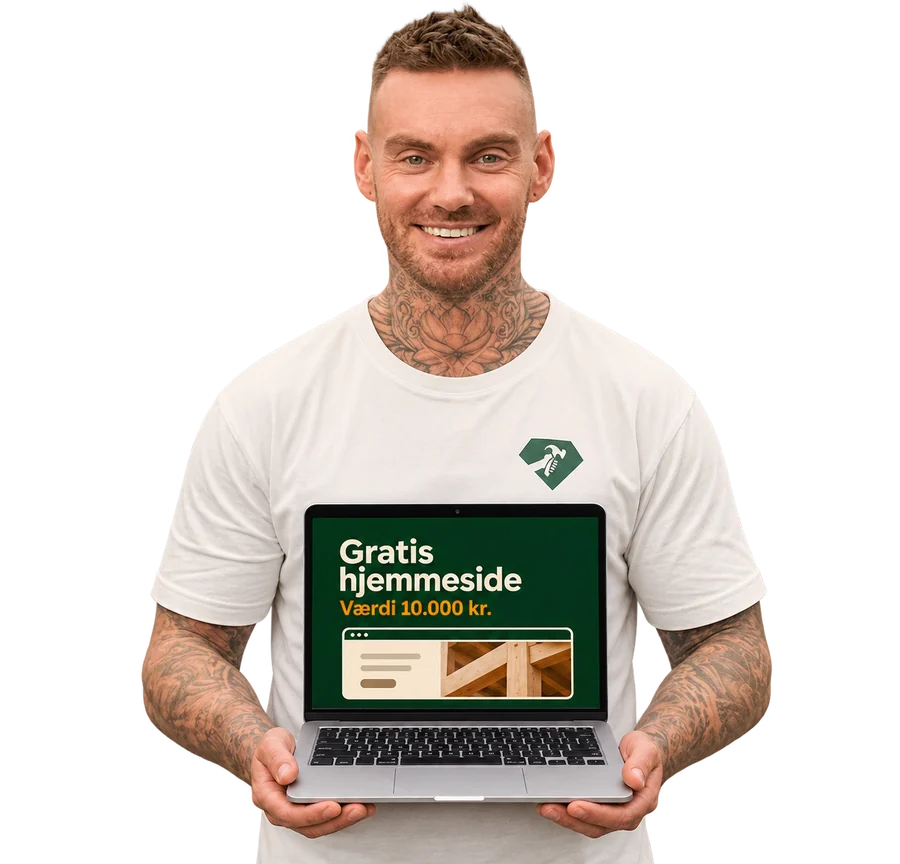
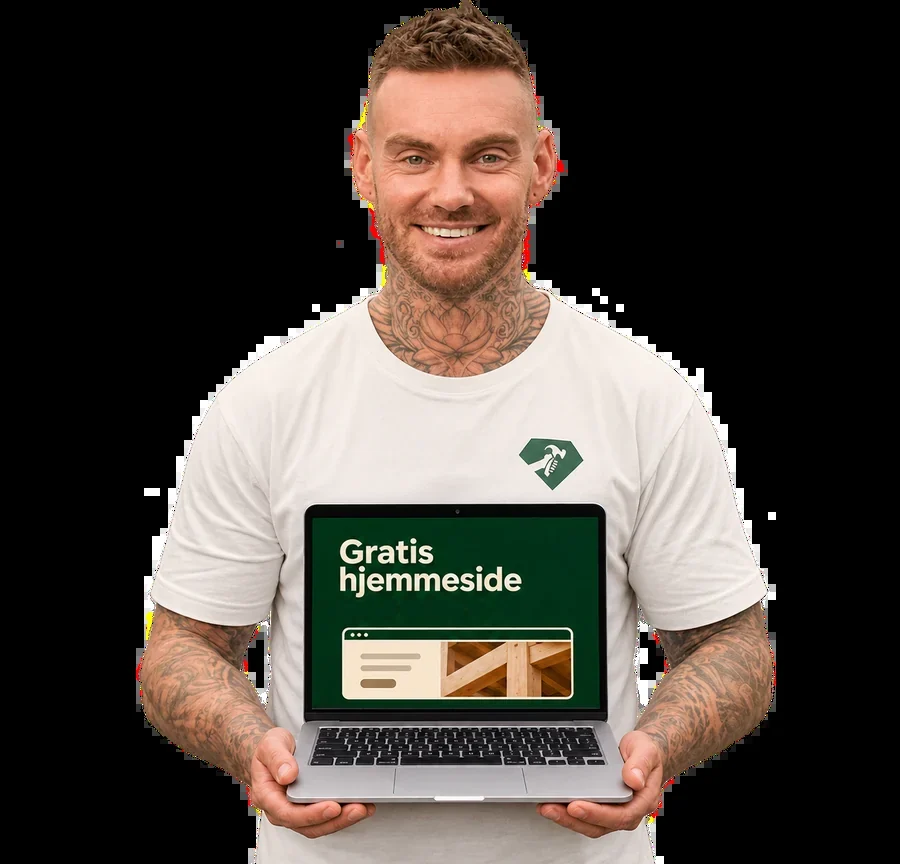
Ærlig hjemmeside-copy (99 kr./md., ingen 10.000 kr.), snefald i hero, 17 videoer, 16 anmeldelser, pile og træk med mus
Claude-Session: https://claude.ai/code/session_01YKPAmFNTgLsFQk9SsnSBkS

diff --git a/index.html b/index.html
@@ -610,10 +610,10 @@ html[data-bf="archivo"] .cta{font-family:'Archivo',sans-serif;font-stretch:112%;
   .laerer .cta{grid-column:2;grid-row:4;margin-top:28px!important;align-self:start;width:100%}
   .prog-top h3{font-size:26px}
 
-  /* cases: alle fem videoer på én række, ingen swipe */
-  .spor{display:grid;grid-template-columns:repeat(5,1fr);gap:16px;overflow:visible;padding:36px 0 6px}
-  .case{width:auto}
-  .case .tekst b{font-size:clamp(16px,1.45vw,21px)}   /* fem kort på én række: titlerne må ikke fylde fire linjer på en lille skærm */
+  /* cases: swipe-spor med pile, fem kort synlige ad gangen */
+  .spor{gap:16px;padding-top:36px}
+  .case{width:calc((min(100vw,1200px) - 140px)/5)}
+  .case .tekst b{font-size:clamp(16px,1.45vw,21px)}
   .prikker{display:none}
   .tp-spor{padding-left:0;padding-right:0}
   .tp-k{flex-basis:300px}
@@ -646,6 +646,30 @@ html[data-bf="archivo"] .cta{font-family:'Archivo',sans-serif;font-stretch:112%;
   .slut8-fakta{max-width:560px;margin-left:auto;margin-right:auto}
   .slut8-fakta dd{font-size:18px}
 }
+
+
+/* snefald i hero: ligger over billedet, under teksten. Fader ud nedad, så det ikke forstyrrer overskriften */
+.sne{position:absolute;inset:0;z-index:1;overflow:hidden;pointer-events:none;--fald:900px;
+  -webkit-mask:linear-gradient(180deg,#000 0,#000 52%,transparent 82%);mask:linear-gradient(180deg,#000 0,#000 52%,transparent 82%)}
+.sne i{position:absolute;top:-12px;border-radius:50%;background:#fff;opacity:var(--o);filter:blur(.4px);
+  animation:sne var(--d) linear var(--f) infinite;will-change:transform}
+@keyframes sne{0%{transform:translate3d(0,0,0)}50%{transform:translate3d(var(--x),calc(var(--fald)*.5),0)}100%{transform:translate3d(0,var(--fald),0)}}
+.hero picture,.hero-txt{position:relative}
+.hero-txt{z-index:2}
+@media (min-width:768px){ .sne{--fald:1250px} }
+@media (prefers-reduced-motion:reduce){ .sne{display:none} }
+
+/* pile under video- og anmeldelsessporet (computer). På mobil swiper man */
+.pile{display:none;justify-content:center;gap:10px;margin-top:16px}
+.pil-k{width:44px;height:44px;border-radius:50%;border:1px solid rgba(6,20,15,.18);background:#fff;color:#06140F;display:flex;align-items:center;justify-content:center;cursor:pointer;
+  transition:background .2s,transform .15s;-webkit-tap-highlight-color:transparent}
+.pil-k:hover{background:#F3EEE6}
+.pil-k:active{transform:scale(.94)}
+.pil-k svg{width:18px;height:18px}
+.pil-k[data-dir="-1"] svg{transform:scaleX(-1)}
+.spor.traek,.tp-spor.traek{cursor:grabbing;scroll-snap-type:none}
+.spor.traek *,.tp-spor.traek *{user-select:none;pointer-events:none}
+@media (hover:hover) and (pointer:fine){ .spor,.tp-spor{cursor:grab} .pile{display:flex} }
 </style>
 </head>
 <body>
@@ -679,6 +703,7 @@ html[data-bf="archivo"] .cta{font-family:'Archivo',sans-serif;font-stretch:112%;
 
 <main>
   <section class="hero">
+    <div class="sne" aria-hidden="true"><i style="left:11.3%;width:4.1px;height:4.1px;--d:13.2s;--f:-18.2s;--x:-30px;--o:0.67"></i><i style="left:73.7%;width:2.7px;height:2.7px;--d:12.6s;--f:-6.4s;--x:-30px;--o:0.61"></i><i style="left:44.0%;width:4.5px;height:4.5px;--d:15.7s;--f:-12.6s;--x:30px;--o:0.76"></i><i style="left:21.9%;width:4.1px;height:4.1px;--d:13.5s;--f:-18.3s;--x:-20px;--o:0.74"></i><i style="left:37.8%;width:3.7px;height:3.7px;--d:16.0s;--f:-4.2s;--x:-20px;--o:0.35"></i><i style="left:44.9%;width:5.2px;height:5.2px;--d:14.8s;--f:-12.1s;--x:-12px;--o:0.59"></i><i style="left:84.9%;width:3.4px;height:3.4px;--d:10.0s;--f:-18.9s;--x:30px;--o:0.67"></i><i style="left:1.5%;width:4.0px;height:4.0px;--d:17.6s;--f:-15.4s;--x:-20px;--o:0.76"></i><i style="left:16.8%;width:4.9px;height:4.9px;--d:9.6s;--f:-15.0s;--x:12px;--o:0.51"></i><i style="left:97.7%;width:4.1px;height:4.1px;--d:9.1s;--f:-0.1s;--x:30px;--o:0.84"></i><i style="left:79.4%;width:2.3px;height:2.3px;--d:10.3s;--f:-16.9s;--x:20px;--o:0.7"></i><i style="left:93.5%;width:3.0px;height:3.0px;--d:13.8s;--f:-10.7s;--x:12px;--o:0.48"></i><i style="left:15.5%;width:5.3px;height:5.3px;--d:17.0s;--f:-2.7s;--x:12px;--o:0.41"></i><i style="left:2.2%;width:5.3px;height:5.3px;--d:11.3s;--f:-13.9s;--x:-20px;--o:0.68"></i><i style="left:93.8%;width:2.0px;height:2.0px;--d:14.6s;--f:-4.2s;--x:-12px;--o:0.44"></i><i style="left:73.0%;width:2.7px;height:2.7px;--d:10.3s;--f:-9.5s;--x:20px;--o:0.71"></i><i style="left:67.8%;width:2.8px;height:2.8px;--d:12.0s;--f:-15.1s;--x:-20px;--o:0.61"></i><i style="left:9.2%;width:2.5px;height:2.5px;--d:14.2s;--f:-12.4s;--x:-12px;--o:0.36"></i><i style="left:75.4%;width:2.5px;height:2.5px;--d:12.0s;--f:-12.1s;--x:30px;--o:0.8"></i><i style="left:61.6%;width:3.2px;height:3.2px;--d:9.5s;--f:-0.2s;--x:-30px;--o:0.66"></i><i style="left:15.6%;width:2.7px;height:2.7px;--d:9.1s;--f:-1.6s;--x:20px;--o:0.83"></i><i style="left:83.5%;width:2.2px;height:2.2px;--d:9.6s;--f:-3.1s;--x:-20px;--o:0.65"></i><i style="left:56.4%;width:2.9px;height:2.9px;--d:9.7s;--f:-10.4s;--x:20px;--o:0.43"></i><i style="left:78.3%;width:5.4px;height:5.4px;--d:11.4s;--f:-2.6s;--x:20px;--o:0.67"></i><i style="left:18.1%;width:2.8px;height:2.8px;--d:19.0s;--f:-10.5s;--x:-20px;--o:0.42"></i><i style="left:79.9%;width:2.5px;height:2.5px;--d:9.7s;--f:-18.6s;--x:-30px;--o:0.75"></i><i style="left:91.9%;width:4.7px;height:4.7px;--d:12.9s;--f:-10.3s;--x:-30px;--o:0.47"></i><i style="left:94.6%;width:2.6px;height:2.6px;--d:15.3s;--f:-13.9s;--x:30px;--o:0.49"></i><i style="left:75.9%;width:5.0px;height:5.0px;--d:17.2s;--f:-4.3s;--x:20px;--o:0.56"></i><i style="left:99.2%;width:4.7px;height:4.7px;--d:17.9s;--f:-1.4s;--x:30px;--o:0.37"></i><i style="left:70.9%;width:3.8px;height:3.8px;--d:12.6s;--f:-7.0s;--x:30px;--o:0.66"></i><i style="left:70.7%;width:4.7px;height:4.7px;--d:12.5s;--f:-10.6s;--x:20px;--o:0.53"></i><i style="left:50.2%;width:3.6px;height:3.6px;--d:17.4s;--f:-7.5s;--x:20px;--o:0.78"></i><i style="left:57.3%;width:5.2px;height:5.2px;--d:13.4s;--f:-2.0s;--x:30px;--o:0.78"></i><i style="left:46.2%;width:4.9px;height:4.9px;--d:18.7s;--f:-6.8s;--x:-30px;--o:0.66"></i><i style="left:48.2%;width:4.1px;height:4.1px;--d:15.4s;--f:-13.7s;--x:12px;--o:0.77"></i><i style="left:40.9%;width:5.4px;height:5.4px;--d:10.8s;--f:-10.2s;--x:-12px;--o:0.54"></i><i style="left:31.4%;width:2.3px;height:2.3px;--d:16.9s;--f:-7.3s;--x:20px;--o:0.4"></i><i style="left:94.1%;width:5.0px;height:5.0px;--d:12.7s;--f:-4.4s;--x:-20px;--o:0.46"></i><i style="left:11.8%;width:4.5px;height:4.5px;--d:18.3s;--f:-18.5s;--x:12px;--o:0.7"></i><i style="left:57.8%;width:4.3px;height:4.3px;--d:11.5s;--f:-4.1s;--x:-30px;--o:0.84"></i><i style="left:68.3%;width:4.5px;height:4.5px;--d:14.8s;--f:-18.9s;--x:20px;--o:0.64"></i><i style="left:39.3%;width:2.5px;height:2.5px;--d:17.9s;--f:-7.9s;--x:30px;--o:0.62"></i><i style="left:4.1%;width:4.8px;height:4.8px;--d:10.9s;--f:-12.4s;--x:12px;--o:0.55"></i><i style="left:52.7%;width:3.4px;height:3.4px;--d:18.4s;--f:-16.4s;--x:-30px;--o:0.74"></i><i style="left:61.9%;width:2.7px;height:2.7px;--d:18.6s;--f:-11.8s;--x:-20px;--o:0.49"></i></div>
     <picture><source media="(min-width:768px)" srcset="billeder/hero-gavl-bred.webp" width="2661" height="1330"><img id="heroimg" src="billeder/hero-gavl.webp" width="1400" height="1485" alt="Stefan fra Håndværkerskolen" fetchpriority="high"></picture>
     <div class="hero-txt">
       <div class="date" id="date"><span class="edge" aria-hidden="true"></span><span class="dot" aria-hidden="true"></span><span class="t" id="datet"></span></div>
@@ -741,7 +766,7 @@ html[data-bf="archivo"] .cta{font-family:'Archivo',sans-serif;font-stretch:112%;
   <section class="cases" id="cases" aria-labelledby="cases-h">
     <p class="eyebrow">Resultater</p>
     <h2 class="h2" id="cases-h">Håndværkere der har fået<br><span class="acc">fyldt ordrebogen</span></h2>
-    <p class="lead">Rigtige håndværkere fortæller selv, hvad der skete. Tryk på en video.</p>
+    <p class="lead">Rigtige håndværkere fortæller selv, hvad der skete. Tryk på en video, og swipe for at se flere.</p>
     <div class="spor" id="spor">
       <a class="case" href="https://www.youtube.com/shorts/LZIb64YkEFc" data-yt="LZIb64YkEFc" target="_blank" rel="noopener" aria-label="Se casen: Opgaver for 4,5 mio. på 4 måneder">
         <img src="billeder/case-mathias.webp" alt="" width="360" height="640" loading="lazy">
@@ -768,13 +793,75 @@ html[data-bf="archivo"] .cta{font-family:'Archivo',sans-serif;font-stretch:112%;
         <span class="spil" aria-hidden="true"><svg><use href="#spil"/></svg></span>
         <span class="tekst"><b>Over 4 mio. kr.<br>i omsætning</b></span>
       </a>
+      <a class="case" href="https://www.youtube.com/shorts/Oede9yDifEY" data-yt="Oede9yDifEY" target="_blank" rel="noopener" aria-label="Se casen: Bjørn fra DK Landskab">
+        <img src="billeder/yt-Oede9yDifEY.webp" alt="" width="540" height="960" loading="lazy">
+        <span class="spil" aria-hidden="true"><svg><use href="#spil"/></svg></span>
+        <span class="tekst"><b>Bjørn fra<br>DK Landskab</b></span>
+      </a>
+      <a class="case" href="https://www.youtube.com/shorts/wu8-avnu8Is" data-yt="wu8-avnu8Is" target="_blank" rel="noopener" aria-label="Se casen: Gesten Multiservice">
+        <img src="billeder/yt-wu8-avnu8Is.webp" alt="" width="540" height="960" loading="lazy">
+        <span class="spil" aria-hidden="true"><svg><use href="#spil"/></svg></span>
+        <span class="tekst"><b>Gesten<br>Multiservice</b><small>Fliserens og isolering</small></span>
+      </a>
+      <a class="case" href="https://www.youtube.com/shorts/Jlqdxbw0h6E" data-yt="Jlqdxbw0h6E" target="_blank" rel="noopener" aria-label="Se casen: Gyldenskjold Tømrer">
+        <img src="billeder/yt-Jlqdxbw0h6E.webp" alt="" width="540" height="960" loading="lazy">
+        <span class="spil" aria-hidden="true"><svg><use href="#spil"/></svg></span>
+        <span class="tekst"><b>Gyldenskjold<br>Tømrer</b></span>
+      </a>
+      <a class="case" href="https://www.youtube.com/shorts/DDp36Xqgap8" data-yt="DDp36Xqgap8" target="_blank" rel="noopener" aria-label="Se casen: KTN Byg">
+        <img src="billeder/yt-DDp36Xqgap8.webp" alt="" width="540" height="960" loading="lazy">
+        <span class="spil" aria-hidden="true"><svg><use href="#spil"/></svg></span>
+        <span class="tekst"><b>KTN Byg</b><small>Aalborg</small></span>
+      </a>
+      <a class="case" href="https://www.youtube.com/shorts/QJNZx3aPsNw" data-yt="QJNZx3aPsNw" target="_blank" rel="noopener" aria-label="Se casen: Lindtoft Byg">
+        <img src="billeder/yt-QJNZx3aPsNw.webp" alt="" width="540" height="960" loading="lazy">
+        <span class="spil" aria-hidden="true"><svg><use href="#spil"/></svg></span>
+        <span class="tekst"><b>Lindtoft Byg</b><small>Sjælland</small></span>
+      </a>
+      <a class="case" href="https://www.youtube.com/shorts/OQelbwCC2iI" data-yt="OQelbwCC2iI" target="_blank" rel="noopener" aria-label="Se casen: Pedersen Byg">
+        <img src="billeder/yt-OQelbwCC2iI.webp" alt="" width="540" height="960" loading="lazy">
+        <span class="spil" aria-hidden="true"><svg><use href="#spil"/></svg></span>
+        <span class="tekst"><b>Pedersen Byg</b><small>Murermester</small></span>
+      </a>
+      <a class="case" href="https://www.youtube.com/shorts/rzUD27Wkfl0" data-yt="rzUD27Wkfl0" target="_blank" rel="noopener" aria-label="Se casen: Nørhald Byg">
+        <img src="billeder/yt-rzUD27Wkfl0.webp" alt="" width="540" height="960" loading="lazy">
+        <span class="spil" aria-hidden="true"><svg><use href="#spil"/></svg></span>
+        <span class="tekst"><b>Nørhald Byg</b><small>Michael</small></span>
+      </a>
+      <a class="case" href="https://www.youtube.com/shorts/JzwPgWBKyQU" data-yt="JzwPgWBKyQU" target="_blank" rel="noopener" aria-label="Se casen: PM Alge og Isolering">
+        <img src="billeder/yt-JzwPgWBKyQU.webp" alt="" width="540" height="960" loading="lazy">
+        <span class="spil" aria-hidden="true"><svg><use href="#spil"/></svg></span>
+        <span class="tekst"><b>PM Alge og<br>Isolering</b><small>Peter</small></span>
+      </a>
+      <a class="case" href="https://www.youtube.com/shorts/1blS_ygITKU" data-yt="1blS_ygITKU" target="_blank" rel="noopener" aria-label="Se casen: Det bedste år i 9 år">
+        <img src="billeder/yt-1blS_ygITKU.webp" alt="" width="540" height="960" loading="lazy">
+        <span class="spil" aria-hidden="true"><svg><use href="#spil"/></svg></span>
+        <span class="tekst"><b>Det bedste år<br>i 9 år</b><small>Emils Skovservice</small></span>
+      </a>
+      <a class="case" href="https://www.youtube.com/shorts/RrtDnIeRbWQ" data-yt="RrtDnIeRbWQ" target="_blank" rel="noopener" aria-label="Se casen: De opgaver man godt kan li' at lave">
+        <img src="billeder/yt-RrtDnIeRbWQ.webp" alt="" width="540" height="960" loading="lazy">
+        <span class="spil" aria-hidden="true"><svg><use href="#spil"/></svg></span>
+        <span class="tekst"><b>De opgaver man<br>godt kan li' at lave</b></span>
+      </a>
+      <a class="case" href="https://www.youtube.com/shorts/mONhIkLXU0o" data-yt="mONhIkLXU0o" target="_blank" rel="noopener" aria-label="Se casen: Et par måneder efter start">
+        <img src="billeder/yt-mONhIkLXU0o.webp" alt="" width="540" height="960" loading="lazy">
+        <span class="spil" aria-hidden="true"><svg><use href="#spil"/></svg></span>
+        <span class="tekst"><b>Et par måneder<br>efter start</b><small>Jonas</small></span>
+      </a>
+      <a class="case" href="https://www.youtube.com/shorts/3W1vINNK8bc" data-yt="3W1vINNK8bc" target="_blank" rel="noopener" aria-label="Se casen: Gode opgaver i bogen">
+        <img src="billeder/yt-3W1vINNK8bc.webp" alt="" width="540" height="960" loading="lazy">
+        <span class="spil" aria-hidden="true"><svg><use href="#spil"/></svg></span>
+        <span class="tekst"><b>Gode opgaver<br>i bogen</b><small>Entreprenørfirma</small></span>
+      </a>
     </div>
-    <div class="prikker" id="prikker" aria-hidden="true"><i></i><i></i><i></i><i></i><i></i></div>
+    <div class="prikker" id="prikker" aria-hidden="true"></div>
+    <div class="pile" data-spor="spor"><button type="button" class="pil-k" data-dir="-1" aria-label="Forrige video"><svg aria-hidden="true"><use href="#pil"/></svg></button><button type="button" class="pil-k" data-dir="1" aria-label="Næste video"><svg aria-hidden="true"><use href="#pil"/></svg></button></div>
     <!-- Ordrette citater fra Trustpilot (hentet 12. nov. 2026). Kun citater med et konkret resultat eller en konkret tvivl, der bliver besvaret,
          og to med 4 stjerner, så det ikke ser for perfekt ud. Hele rækken står to gange, så den kan glide i ring -->
     <div class="anm" aria-labelledby="tp-h">
       <p class="tp-top" id="tp-h"><span class="tp-score" aria-hidden="true"><i style="width:100%"></i></span><span>Det siger håndværkerne selv</span></p>
-      <div class="tp-spor" id="tpspor"><figure class="tp-k"><span class="tp-s" aria-label="5 ud af 5 stjerner"><i class="on"></i><i class="on"></i><i class="on"></i><i class="on"></i><i class="on"></i></span><blockquote>“Nu er det ik mig der søger arbejde, nu er det kunderne der henvender sig til mig.”</blockquote><figcaption><b>Kenneth Busk Thomsen</b><span class="tp-f">Murer Busk</span></figcaption></figure><figure class="tp-k"><span class="tp-s" aria-label="5 ud af 5 stjerner"><i class="on"></i><i class="on"></i><i class="on"></i><i class="on"></i><i class="on"></i></span><blockquote>“Vi har fået så mange henvendelser, at vi faktisk måtte skrue ned for annoncebudgettet, fordi vi ikke kunne følge med.”</blockquote><figcaption><b>Christian-Thor Egilsson</b><span class="tp-f">Tømrermester CT</span></figcaption></figure><figure class="tp-k"><span class="tp-s" aria-label="5 ud af 5 stjerner"><i class="on"></i><i class="on"></i><i class="on"></i><i class="on"></i><i class="on"></i></span><blockquote>“Og dem der tvivler på om det kan passe at det er så godt som de siger i videoen. Så kan jeg kun sige at det gør det.”</blockquote><figcaption><b>Carsten</b><span class="tp-f">Hedes Gulvservice</span></figcaption></figure><figure class="tp-k"><span class="tp-s" aria-label="5 ud af 5 stjerner"><i class="on"></i><i class="on"></i><i class="on"></i><i class="on"></i><i class="on"></i></span><blockquote>“Firmaet har vækstet til dobbelt størrelse som var målet fra start, så det må siges at være lykkedes.”</blockquote><figcaption><b>Michael Andreasen</b><span class="tp-f">Nørhald Byg</span></figcaption></figure><figure class="tp-k"><span class="tp-s" aria-label="4 ud af 5 stjerner"><i class="on"></i><i class="on"></i><i class="on"></i><i class="on"></i><i></i></span><blockquote>“Prisen er lidt pebret, men alt i alt virker det godt :) min omsætning er i hvert fald øget efter reklamerne.”</blockquote><figcaption><b>Kristian Lovdal</b></figcaption></figure><figure class="tp-k"><span class="tp-s" aria-label="4 ud af 5 stjerner"><i class="on"></i><i class="on"></i><i class="on"></i><i class="on"></i><i></i></span><blockquote>“Generelt har vi haft vores bedste år, ud af de 9 år vi har drevet virksomhed.”</blockquote><figcaption><b>Emils Skovservice</b></figcaption></figure><figure class="tp-k"><span class="tp-s" aria-label="5 ud af 5 stjerner"><i class="on"></i><i class="on"></i><i class="on"></i><i class="on"></i><i class="on"></i></span><blockquote>“Siden jeg begyndte at samarbejde med håndværkerskolen, er der virkelig sket noget. De har hjulpet mig med at få flere og bedre kundehenvendelser.”</blockquote><figcaption><b>Steffen Møller Jürgensen</b><span class="tp-f">Tømrermester SMJ Byg</span></figcaption></figure><figure class="tp-k"><span class="tp-s" aria-label="5 ud af 5 stjerner"><i class="on"></i><i class="on"></i><i class="on"></i><i class="on"></i><i class="on"></i></span><blockquote>“Kundehenvendelser er ingen mangelvare efter jeg startede hos dem.”</blockquote><figcaption><b>Rasmus Blovsted</b></figcaption></figure><figure class="tp-k"><span class="tp-s" aria-label="5 ud af 5 stjerner"><i class="on"></i><i class="on"></i><i class="on"></i><i class="on"></i><i class="on"></i></span><blockquote>“Har aldrig i mit liv troet det kunne virke så godt.”</blockquote><figcaption><b>Den lille murer jylland</b></figcaption></figure><figure class="tp-k"><span class="tp-s" aria-label="5 ud af 5 stjerner"><i class="on"></i><i class="on"></i><i class="on"></i><i class="on"></i><i class="on"></i></span><blockquote>“Ydermere kommer man også ind i et fællesskab hvor der deles erfaringer og gode råd.”</blockquote><figcaption><b>Kasper Skavdal</b><span class="tp-f">Skavdal Byg</span></figcaption></figure><figure class="tp-k" aria-hidden="true"><span class="tp-s" aria-label="5 ud af 5 stjerner"><i class="on"></i><i class="on"></i><i class="on"></i><i class="on"></i><i class="on"></i></span><blockquote>“Nu er det ik mig der søger arbejde, nu er det kunderne der henvender sig til mig.”</blockquote><figcaption><b>Kenneth Busk Thomsen</b><span class="tp-f">Murer Busk</span></figcaption></figure><figure class="tp-k" aria-hidden="true"><span class="tp-s" aria-label="5 ud af 5 stjerner"><i class="on"></i><i class="on"></i><i class="on"></i><i class="on"></i><i class="on"></i></span><blockquote>“Vi har fået så mange henvendelser, at vi faktisk måtte skrue ned for annoncebudgettet, fordi vi ikke kunne følge med.”</blockquote><figcaption><b>Christian-Thor Egilsson</b><span class="tp-f">Tømrermester CT</span></figcaption></figure><figure class="tp-k" aria-hidden="true"><span class="tp-s" aria-label="5 ud af 5 stjerner"><i class="on"></i><i class="on"></i><i class="on"></i><i class="on"></i><i class="on"></i></span><blockquote>“Og dem der tvivler på om det kan passe at det er så godt som de siger i videoen. Så kan jeg kun sige at det gør det.”</blockquote><figcaption><b>Carsten</b><span class="tp-f">Hedes Gulvservice</span></figcaption></figure><figure class="tp-k" aria-hidden="true"><span class="tp-s" aria-label="5 ud af 5 stjerner"><i class="on"></i><i class="on"></i><i class="on"></i><i class="on"></i><i class="on"></i></span><blockquote>“Firmaet har vækstet til dobbelt størrelse som var målet fra start, så det må siges at være lykkedes.”</blockquote><figcaption><b>Michael Andreasen</b><span class="tp-f">Nørhald Byg</span></figcaption></figure><figure class="tp-k" aria-hidden="true"><span class="tp-s" aria-label="4 ud af 5 stjerner"><i class="on"></i><i class="on"></i><i class="on"></i><i class="on"></i><i></i></span><blockquote>“Prisen er lidt pebret, men alt i alt virker det godt :) min omsætning er i hvert fald øget efter reklamerne.”</blockquote><figcaption><b>Kristian Lovdal</b></figcaption></figure><figure class="tp-k" aria-hidden="true"><span class="tp-s" aria-label="4 ud af 5 stjerner"><i class="on"></i><i class="on"></i><i class="on"></i><i class="on"></i><i></i></span><blockquote>“Generelt har vi haft vores bedste år, ud af de 9 år vi har drevet virksomhed.”</blockquote><figcaption><b>Emils Skovservice</b></figcaption></figure><figure class="tp-k" aria-hidden="true"><span class="tp-s" aria-label="5 ud af 5 stjerner"><i class="on"></i><i class="on"></i><i class="on"></i><i class="on"></i><i class="on"></i></span><blockquote>“Siden jeg begyndte at samarbejde med håndværkerskolen, er der virkelig sket noget. De har hjulpet mig med at få flere og bedre kundehenvendelser.”</blockquote><figcaption><b>Steffen Møller Jürgensen</b><span class="tp-f">Tømrermester SMJ Byg</span></figcaption></figure><figure class="tp-k" aria-hidden="true"><span class="tp-s" aria-label="5 ud af 5 stjerner"><i class="on"></i><i class="on"></i><i class="on"></i><i class="on"></i><i class="on"></i></span><blockquote>“Kundehenvendelser er ingen mangelvare efter jeg startede hos dem.”</blockquote><figcaption><b>Rasmus Blovsted</b></figcaption></figure><figure class="tp-k" aria-hidden="true"><span class="tp-s" aria-label="5 ud af 5 stjerner"><i class="on"></i><i class="on"></i><i class="on"></i><i class="on"></i><i class="on"></i></span><blockquote>“Har aldrig i mit liv troet det kunne virke så godt.”</blockquote><figcaption><b>Den lille murer jylland</b></figcaption></figure><figure class="tp-k" aria-hidden="true"><span class="tp-s" aria-label="5 ud af 5 stjerner"><i class="on"></i><i class="on"></i><i class="on"></i><i class="on"></i><i class="on"></i></span><blockquote>“Ydermere kommer man også ind i et fællesskab hvor der deles erfaringer og gode råd.”</blockquote><figcaption><b>Kasper Skavdal</b><span class="tp-f">Skavdal Byg</span></figcaption></figure></div>
+      <div class="tp-spor" id="tpspor"><figure class="tp-k"><span class="tp-s" aria-label="5 ud af 5 stjerner"><i class="on"></i><i class="on"></i><i class="on"></i><i class="on"></i><i class="on"></i></span><blockquote>“Nu er det ik mig der søger arbejde, nu er det kunderne der henvender sig til mig.”</blockquote><figcaption><b>Kenneth Busk Thomsen</b><span class="tp-f">Murer Busk</span></figcaption></figure><figure class="tp-k"><span class="tp-s" aria-label="5 ud af 5 stjerner"><i class="on"></i><i class="on"></i><i class="on"></i><i class="on"></i><i class="on"></i></span><blockquote>“Vi har fået så mange henvendelser, at vi faktisk måtte skrue ned for annoncebudgettet, fordi vi ikke kunne følge med.”</blockquote><figcaption><b>Christian-Thor Egilsson</b><span class="tp-f">Tømrermester CT</span></figcaption></figure><figure class="tp-k"><span class="tp-s" aria-label="5 ud af 5 stjerner"><i class="on"></i><i class="on"></i><i class="on"></i><i class="on"></i><i class="on"></i></span><blockquote>“Og dem der tvivler på om det kan passe at det er så godt som de siger i videoen. Så kan jeg kun sige at det gør det.”</blockquote><figcaption><b>Carsten</b><span class="tp-f">Hedes Gulvservice</span></figcaption></figure><figure class="tp-k"><span class="tp-s" aria-label="5 ud af 5 stjerner"><i class="on"></i><i class="on"></i><i class="on"></i><i class="on"></i><i class="on"></i></span><blockquote>“Har aldrig haft så mange kunder som jeg har nu 👍”</blockquote><figcaption><b>Christian</b></figcaption></figure><figure class="tp-k"><span class="tp-s" aria-label="5 ud af 5 stjerner"><i class="on"></i><i class="on"></i><i class="on"></i><i class="on"></i><i class="on"></i></span><blockquote>“Firmaet har vækstet til dobbelt størrelse som var målet fra start, så det må siges at være lykkedes.”</blockquote><figcaption><b>Michael Andreasen</b><span class="tp-f">Nørhald Byg</span></figcaption></figure><figure class="tp-k"><span class="tp-s" aria-label="4 ud af 5 stjerner"><i class="on"></i><i class="on"></i><i class="on"></i><i class="on"></i><i></i></span><blockquote>“Prisen er lidt pebret, men alt i alt virker det godt :) min omsætning er i hvert fald øget efter reklamerne.”</blockquote><figcaption><b>Kristian Lovdal</b></figcaption></figure><figure class="tp-k"><span class="tp-s" aria-label="5 ud af 5 stjerner"><i class="on"></i><i class="on"></i><i class="on"></i><i class="on"></i><i class="on"></i></span><blockquote>“Det bedste jeg længe har gjort!!! Hjælpen er nær, snakken er fri”</blockquote><figcaption><b>Erik J.</b></figcaption></figure><figure class="tp-k"><span class="tp-s" aria-label="4 ud af 5 stjerner"><i class="on"></i><i class="on"></i><i class="on"></i><i class="on"></i><i></i></span><blockquote>“Generelt har vi haft vores bedste år, ud af de 9 år vi har drevet virksomhed.”</blockquote><figcaption><b>Emils Skovservice</b></figcaption></figure><figure class="tp-k"><span class="tp-s" aria-label="5 ud af 5 stjerner"><i class="on"></i><i class="on"></i><i class="on"></i><i class="on"></i><i class="on"></i></span><blockquote>“Siden jeg begyndte at samarbejde med håndværkerskolen, er der virkelig sket noget. De har hjulpet mig med at få flere og bedre kundehenvendelser.”</blockquote><figcaption><b>Steffen Møller Jürgensen</b><span class="tp-f">Tømrermester SMJ Byg</span></figcaption></figure><figure class="tp-k"><span class="tp-s" aria-label="5 ud af 5 stjerner"><i class="on"></i><i class="on"></i><i class="on"></i><i class="on"></i><i class="on"></i></span><blockquote>“Stefan er en fantastisk mentor. Han er altid der for en, når man har brug for et godt råd”</blockquote><figcaption><b>Oliver N.</b></figcaption></figure><figure class="tp-k"><span class="tp-s" aria-label="5 ud af 5 stjerner"><i class="on"></i><i class="on"></i><i class="on"></i><i class="on"></i><i class="on"></i></span><blockquote>“Kan helt klart anbefale Håndværkerskolen, det er det perfekte skub til din virksomhed”</blockquote><figcaption><b>Søren</b></figcaption></figure><figure class="tp-k"><span class="tp-s" aria-label="5 ud af 5 stjerner"><i class="on"></i><i class="on"></i><i class="on"></i><i class="on"></i><i class="on"></i></span><blockquote>“Kundehenvendelser er ingen mangelvare efter jeg startede hos dem.”</blockquote><figcaption><b>Rasmus Blovsted</b></figcaption></figure><figure class="tp-k"><span class="tp-s" aria-label="5 ud af 5 stjerner"><i class="on"></i><i class="on"></i><i class="on"></i><i class="on"></i><i class="on"></i></span><blockquote>“Har aldrig i mit liv troet det kunne virke så godt.”</blockquote><figcaption><b>Den lille murer jylland</b></figcaption></figure><figure class="tp-k"><span class="tp-s" aria-label="5 ud af 5 stjerner"><i class="on"></i><i class="on"></i><i class="on"></i><i class="on"></i><i class="on"></i></span><blockquote>“Det er fantastisk at have et team bag ryggen som er både engageret og går op i ens forretning”</blockquote><figcaption><b>Jacob M</b></figcaption></figure><figure class="tp-k"><span class="tp-s" aria-label="5 ud af 5 stjerner"><i class="on"></i><i class="on"></i><i class="on"></i><i class="on"></i><i class="on"></i></span><blockquote>“Ydermere kommer man også ind i et fællesskab hvor der deles erfaringer og gode råd.”</blockquote><figcaption><b>Kasper Skavdal</b><span class="tp-f">Skavdal Byg</span></figcaption></figure><figure class="tp-k"><span class="tp-s" aria-label="5 ud af 5 stjerner"><i class="on"></i><i class="on"></i><i class="on"></i><i class="on"></i><i class="on"></i></span><blockquote>“Det virker super fint - både at få styr på dit kontor arbejde/Ordrestyring samt henvendelser”</blockquote><figcaption><b>Mikkel P.</b></figcaption></figure><figure class="tp-k" aria-hidden="true"><span class="tp-s" aria-label="5 ud af 5 stjerner"><i class="on"></i><i class="on"></i><i class="on"></i><i class="on"></i><i class="on"></i></span><blockquote>“Nu er det ik mig der søger arbejde, nu er det kunderne der henvender sig til mig.”</blockquote><figcaption><b>Kenneth Busk Thomsen</b><span class="tp-f">Murer Busk</span></figcaption></figure><figure class="tp-k" aria-hidden="true"><span class="tp-s" aria-label="5 ud af 5 stjerner"><i class="on"></i><i class="on"></i><i class="on"></i><i class="on"></i><i class="on"></i></span><blockquote>“Vi har fået så mange henvendelser, at vi faktisk måtte skrue ned for annoncebudgettet, fordi vi ikke kunne følge med.”</blockquote><figcaption><b>Christian-Thor Egilsson</b><span class="tp-f">Tømrermester CT</span></figcaption></figure><figure class="tp-k" aria-hidden="true"><span class="tp-s" aria-label="5 ud af 5 stjerner"><i class="on"></i><i class="on"></i><i class="on"></i><i class="on"></i><i class="on"></i></span><blockquote>“Og dem der tvivler på om det kan passe at det er så godt som de siger i videoen. Så kan jeg kun sige at det gør det.”</blockquote><figcaption><b>Carsten</b><span class="tp-f">Hedes Gulvservice</span></figcaption></figure><figure class="tp-k" aria-hidden="true"><span class="tp-s" aria-label="5 ud af 5 stjerner"><i class="on"></i><i class="on"></i><i class="on"></i><i class="on"></i><i class="on"></i></span><blockquote>“Har aldrig haft så mange kunder som jeg har nu 👍”</blockquote><figcaption><b>Christian</b></figcaption></figure><figure class="tp-k" aria-hidden="true"><span class="tp-s" aria-label="5 ud af 5 stjerner"><i class="on"></i><i class="on"></i><i class="on"></i><i class="on"></i><i class="on"></i></span><blockquote>“Firmaet har vækstet til dobbelt størrelse som var målet fra start, så det må siges at være lykkedes.”</blockquote><figcaption><b>Michael Andreasen</b><span class="tp-f">Nørhald Byg</span></figcaption></figure><figure class="tp-k" aria-hidden="true"><span class="tp-s" aria-label="4 ud af 5 stjerner"><i class="on"></i><i class="on"></i><i class="on"></i><i class="on"></i><i></i></span><blockquote>“Prisen er lidt pebret, men alt i alt virker det godt :) min omsætning er i hvert fald øget efter reklamerne.”</blockquote><figcaption><b>Kristian Lovdal</b></figcaption></figure><figure class="tp-k" aria-hidden="true"><span class="tp-s" aria-label="5 ud af 5 stjerner"><i class="on"></i><i class="on"></i><i class="on"></i><i class="on"></i><i class="on"></i></span><blockquote>“Det bedste jeg længe har gjort!!! Hjælpen er nær, snakken er fri”</blockquote><figcaption><b>Erik J.</b></figcaption></figure><figure class="tp-k" aria-hidden="true"><span class="tp-s" aria-label="4 ud af 5 stjerner"><i class="on"></i><i class="on"></i><i class="on"></i><i class="on"></i><i></i></span><blockquote>“Generelt har vi haft vores bedste år, ud af de 9 år vi har drevet virksomhed.”</blockquote><figcaption><b>Emils Skovservice</b></figcaption></figure><figure class="tp-k" aria-hidden="true"><span class="tp-s" aria-label="5 ud af 5 stjerner"><i class="on"></i><i class="on"></i><i class="on"></i><i class="on"></i><i class="on"></i></span><blockquote>“Siden jeg begyndte at samarbejde med håndværkerskolen, er der virkelig sket noget. De har hjulpet mig med at få flere og bedre kundehenvendelser.”</blockquote><figcaption><b>Steffen Møller Jürgensen</b><span class="tp-f">Tømrermester SMJ Byg</span></figcaption></figure><figure class="tp-k" aria-hidden="true"><span class="tp-s" aria-label="5 ud af 5 stjerner"><i class="on"></i><i class="on"></i><i class="on"></i><i class="on"></i><i class="on"></i></span><blockquote>“Stefan er en fantastisk mentor. Han er altid der for en, når man har brug for et godt råd”</blockquote><figcaption><b>Oliver N.</b></figcaption></figure><figure class="tp-k" aria-hidden="true"><span class="tp-s" aria-label="5 ud af 5 stjerner"><i class="on"></i><i class="on"></i><i class="on"></i><i class="on"></i><i class="on"></i></span><blockquote>“Kan helt klart anbefale Håndværkerskolen, det er det perfekte skub til din virksomhed”</blockquote><figcaption><b>Søren</b></figcaption></figure><figure class="tp-k" aria-hidden="true"><span class="tp-s" aria-label="5 ud af 5 stjerner"><i class="on"></i><i class="on"></i><i class="on"></i><i class="on"></i><i class="on"></i></span><blockquote>“Kundehenvendelser er ingen mangelvare efter jeg startede hos dem.”</blockquote><figcaption><b>Rasmus Blovsted</b></figcaption></figure><figure class="tp-k" aria-hidden="true"><span class="tp-s" aria-label="5 ud af 5 stjerner"><i class="on"></i><i class="on"></i><i class="on"></i><i class="on"></i><i class="on"></i></span><blockquote>“Har aldrig i mit liv troet det kunne virke så godt.”</blockquote><figcaption><b>Den lille murer jylland</b></figcaption></figure><figure class="tp-k" aria-hidden="true"><span class="tp-s" aria-label="5 ud af 5 stjerner"><i class="on"></i><i class="on"></i><i class="on"></i><i class="on"></i><i class="on"></i></span><blockquote>“Det er fantastisk at have et team bag ryggen som er både engageret og går op i ens forretning”</blockquote><figcaption><b>Jacob M</b></figcaption></figure><figure class="tp-k" aria-hidden="true"><span class="tp-s" aria-label="5 ud af 5 stjerner"><i class="on"></i><i class="on"></i><i class="on"></i><i class="on"></i><i class="on"></i></span><blockquote>“Ydermere kommer man også ind i et fællesskab hvor der deles erfaringer og gode råd.”</blockquote><figcaption><b>Kasper Skavdal</b><span class="tp-f">Skavdal Byg</span></figcaption></figure><figure class="tp-k" aria-hidden="true"><span class="tp-s" aria-label="5 ud af 5 stjerner"><i class="on"></i><i class="on"></i><i class="on"></i><i class="on"></i><i class="on"></i></span><blockquote>“Det virker super fint - både at få styr på dit kontor arbejde/Ordrestyring samt henvendelser”</blockquote><figcaption><b>Mikkel P.</b></figcaption></figure></div>
+      <div class="pile" data-spor="tpspor"><button type="button" class="pil-k" data-dir="-1" aria-label="Forrige anmeldelse"><svg aria-hidden="true"><use href="#pil"/></svg></button><button type="button" class="pil-k" data-dir="1" aria-label="Næste anmeldelse"><svg aria-hidden="true"><use href="#pil"/></svg></button></div>
     </div>
   </section>
   <section class="stefan" id="stefan" aria-labelledby="stefan-h">
@@ -813,18 +900,16 @@ html[data-bf="archivo"] .cta{font-family:'Archivo',sans-serif;font-stretch:112%;
     </ol>
   </section>
   <section class="saadan gx" id="saadan" aria-labelledby="saadan-h">
-    <p class="gx-pill"><svg aria-hidden="true"><use href="#i-gave"/></svg>Bonus til dig, der er med live</p>
-    <h2 class="gx-h" id="saadan-h"><span class="l">Mulighed for en</span><span class="l"><span class="acc">gratis hjemmeside<svg class="gx-swipe" viewBox="0 0 420 30" preserveAspectRatio="none" aria-hidden="true"><defs><linearGradient id="swG2" x1="0" y1="0" x2="0" y2="1"><stop offset="0" stop-color="#ff9653"/><stop offset="1" stop-color="#ee6d1a"/></linearGradient><filter id="swR2" x="-3%" y="-45%" width="106%" height="190%"><feTurbulence type="fractalNoise" baseFrequency="0.018 0.17" numOctaves="2" seed="11" result="n"/><feDisplacementMap in="SourceGraphic" in2="n" scale="6" xChannelSelector="R" yChannelSelector="G"/></filter></defs><g filter="url(#swR2)" fill="none" stroke-linecap="butt"><path pathLength="1" d="M 5 17 C 70 8, 150 21, 230 14 S 350 9, 404 15.5" stroke="url(#swG2)" stroke-width="20"/><path pathLength="1" d="M 372 14.5 C 390 14.5, 406 16, 417 18.5" stroke="url(#swG2)" stroke-width="9"/></g></svg></span></span></h2>
+    <p class="gx-pill"><svg aria-hidden="true"><use href="#i-gave"/></svg>Kun for dig, der er med live</p>
+    <h2 class="gx-h" id="saadan-h"><span class="l">Optagelsen, og vi bygger</span><span class="l"><span class="acc">din hjemmeside gratis<svg class="gx-swipe" viewBox="0 0 420 30" preserveAspectRatio="none" aria-hidden="true"><defs><linearGradient id="swG2" x1="0" y1="0" x2="0" y2="1"><stop offset="0" stop-color="#ff9653"/><stop offset="1" stop-color="#ee6d1a"/></linearGradient><filter id="swR2" x="-3%" y="-45%" width="106%" height="190%"><feTurbulence type="fractalNoise" baseFrequency="0.018 0.17" numOctaves="2" seed="11" result="n"/><feDisplacementMap in="SourceGraphic" in2="n" scale="6" xChannelSelector="R" yChannelSelector="G"/></filter></defs><g filter="url(#swR2)" fill="none" stroke-linecap="butt"><path pathLength="1" d="M 5 17 C 70 8, 150 21, 230 14 S 350 9, 404 15.5" stroke="url(#swG2)" stroke-width="20"/><path pathLength="1" d="M 372 14.5 C 390 14.5, 406 16, 417 18.5" stroke="url(#swG2)" stroke-width="9"/></g></svg></span></span></h2>
     <div class="gx-stage" id="gx-stage">
       <div class="konfetti2" aria-hidden="true"><i style="left:32%;--d:9.8s;--f:-1.6s;--r:74deg;--x:0px;background:#C95A12;width:7px;height:5px"></i><i style="left:3%;--d:11.5s;--f:-5.6s;--r:61deg;--x:-16px;background:#F7883A;width:10px;height:5px"></i><i style="left:72%;--d:9.1s;--f:-7.7s;--r:-42deg;--x:-16px;background:#C95A12;width:8px;height:5px"></i><i style="left:51%;--d:10.6s;--f:-8.1s;--r:-64deg;--x:-20px;background:#F3EEE6;width:7px;height:4px"></i><i style="left:5%;--d:11.0s;--f:-3.2s;--r:72deg;--x:16px;background:#2D5A3D;width:10px;height:4px"></i><i style="left:95%;--d:10.9s;--f:-5.3s;--r:-46deg;--x:26px;background:#FFB27A;width:7px;height:3px"></i><i style="left:19%;--d:9.2s;--f:-3.1s;--r:31deg;--x:19px;background:#C95A12;width:9px;height:4px"></i><i style="left:66%;--d:11.1s;--f:-6.9s;--r:56deg;--x:7px;background:#2D5A3D;width:8px;height:4px"></i><i style="left:89%;--d:11.5s;--f:-0.3s;--r:-9deg;--x:8px;background:#C95A12;width:8px;height:5px"></i><i style="left:43%;--d:11.8s;--f:-10.9s;--r:65deg;--x:-24px;background:#C95A12;width:8px;height:5px"></i><i style="left:75%;--d:8.0s;--f:-1.5s;--r:43deg;--x:24px;background:#C95A12;width:10px;height:3px"></i><i style="left:46%;--d:10.9s;--f:-4.9s;--r:-42deg;--x:-29px;background:#FFB27A;width:10px;height:4px"></i><i style="left:17%;--d:6.7s;--f:-7.4s;--r:-69deg;--x:-6px;background:#C95A12;width:9px;height:5px"></i><i style="left:37%;--d:9.3s;--f:-12.0s;--r:-1deg;--x:-30px;background:#F27628;width:7px;height:5px"></i><i style="left:70%;--d:6.7s;--f:-2.4s;--r:24deg;--x:-12px;background:#F3EEE6;width:9px;height:3px"></i><i style="left:90%;--d:6.7s;--f:-10.4s;--r:0deg;--x:-7px;background:#F7883A;width:10px;height:4px"></i><i style="left:60%;--d:11.3s;--f:-4.6s;--r:72deg;--x:13px;background:#F3EEE6;width:7px;height:5px"></i><i style="left:66%;--d:8.0s;--f:-7.6s;--r:-20deg;--x:29px;background:#FFB27A;width:10px;height:4px"></i></div>
-      <img src="billeder/stefan-laptop.webp" alt="Stefan fra Håndværkerskolen holder en laptop med en gratis hjemmeside til en værdi af 10.000 kr." width="900" height="864" loading="lazy">
-      <div class="gx-sticker" aria-hidden="true"><small>Værdi</small><b>10.000</b><small>kr.</small></div>
+      <img src="billeder/stefan-laptop.webp" alt="Stefan fra Håndværkerskolen holder en laptop med en hjemmeside" width="900" height="864" loading="lazy">
     </div>
     <div class="gx-body">
-      <p class="gave-tekst">Er du med live, får du muligheden for at få en hjemmeside til din virksomhed. Helt gratis.</p>
+      <p class="gave-tekst">Du får optagelsen bagefter, så du kan se det hele igen. Og vi bygger din hjemmeside gratis. Du betaler kun 99 kr./md. for domæne og hosting.</p>
       <!-- MANGLER fra Tobias: hvordan man får hjemmesiden, og hvad den indeholder -->
     </div>
-    <p class="ogsaa"><svg aria-hidden="true"><use href="#i-afspil-cirkel"/></svg><span>Og så får du <b>optagelsen</b> bagefter, så du kan se det hele igen.</span></p>
     <p class="fakta"><span>30. november</span><span>Kl. 19:00</span><span>Ca. 1 time</span><span>Online</span><span>Gratis</span><span>Linket kommer på SMS</span></p>
     <a class="cta" href="#tilmeld"><span class="lg" aria-hidden="true"></span><span class="ctat"></span></a>
   </section>
@@ -847,7 +932,7 @@ html[data-bf="archivo"] .cta{font-family:'Archivo',sans-serif;font-stretch:112%;
         <p>Nej. Du er ikke på kamera og skal ikke sige noget. Du ser bare med.</p></details>
       <!-- Fra deres egne annoncemanuskripter (December Online Event): "Alle, der deltager live, får optagelserne" -->
       <details><summary><span>Hvad hvis jeg ikke kan den aften?</span><i class="pl" aria-hidden="true"></i></summary>
-        <p>Vær med live, hvis du overhovedet kan. Det er kun dem, der er med live, der får optagelsen og muligheden for den gratis hjemmeside.</p></details>
+        <p>Vær med live, hvis du overhovedet kan. Det er kun dem, der er med live, der får optagelsen bagefter, og vi bygger deres hjemmeside gratis. Du betaler kun 99 kr./md. for domæne og hosting.</p></details>
     </div>
   </section>
   <section class="slut8" id="sidste" aria-labelledby="slut8-h">
@@ -855,7 +940,7 @@ html[data-bf="archivo"] .cta{font-family:'Archivo',sans-serif;font-stretch:112%;
     <ul class="slut8-l">
       <li><svg aria-hidden="true"><use href="#i-kalender"/></svg><span>Én aften med Stefan: sådan skaffer du selv de opgaver, du helst vil have</span></li>
       <li><svg aria-hidden="true"><use href="#i-soejler"/></svg><span>Rigtige tal fra rigtige virksomheder i håndværksbranchen</span></li>
-      <li><svg aria-hidden="true"><use href="#i-gave"/></svg><span>Er du med live: optagelsen og muligheden for en gratis hjemmeside</span></li>
+      <li><svg aria-hidden="true"><use href="#i-gave"/></svg><span>Kun for dig, der er med live: optagelsen, og vi bygger din hjemmeside gratis (99 kr./md. for domæne og hosting)</span></li>
     </ul>
     <!-- Det praktiske samlet ét sted lige før knappen, til dem der skimmer (som "Hurtig opsummering" på den gamle side, men på 4 felter) -->
     <dl class="slut8-fakta">
@@ -1108,7 +1193,8 @@ document.querySelectorAll('.review .grp').forEach(function(g){ var k=g.dataset.k
   new IntersectionObserver(function(es){ synlig=es[0].isIntersecting; if(synlig) start(); }).observe(sp);
   document.addEventListener('visibilitychange',function(){ if(!document.hidden) start(); }); })();
 /* prikkerne under sporet viser, hvilket kort man er ved */
-(function(){ var sp=document.getElementById('spor'), pr=[].slice.call(document.querySelectorAll('#prikker i')), kort=[].slice.call(sp.children);
+(function(){ var sp=document.getElementById('spor'), kort=[].slice.call(sp.children), boks=document.getElementById('prikker');
+  kort.forEach(function(){ boks.appendChild(document.createElement('i')); }); var pr=[].slice.call(boks.children);
   function opd(){ var i=0, best=1e9; kort.forEach(function(k,n){ var d=Math.abs(k.offsetLeft-sp.offsetLeft-18-sp.scrollLeft); if(d<best){best=d;i=n;} });
     pr.forEach(function(p,n){ p.classList.toggle('on',n===i); }); }
   sp.addEventListener('scroll',function(){ window.requestAnimationFrame(opd); },{passive:true}); opd(); })();
@@ -1118,6 +1204,24 @@ document.querySelectorAll('.review .grp').forEach(function(g){ var k=g.dataset.k
   if(!('IntersectionObserver' in window)){ g.classList.add('vist'); return; }
   var io=new IntersectionObserver(function(es){ es.forEach(function(e){ if(e.isIntersecting){ g.classList.add('vist'); io.disconnect(); } }); },{threshold:.25});
   io.observe(g); })();
+
+/* pile og træk med musen på video- og anmeldelsessporet */
+(function(){
+  function trin(sp){ var k=sp.querySelector('.case,.tp-k'); return k?k.getBoundingClientRect().width+parseFloat(getComputedStyle(sp).columnGap||12):280; }
+  [].forEach.call(document.querySelectorAll('.pile'),function(p){ var sp=document.getElementById(p.dataset.spor); if(!sp) return;
+    p.addEventListener('click',function(e){ var b=e.target.closest('.pil-k'); if(!b) return; var dir=+b.dataset.dir, t=trin(sp);
+      sp.dispatchEvent(new Event('pointerdown'));
+      if(sp.id==='tpspor'&&dir<0&&sp.scrollLeft<t){ var d=sp.querySelector('.tp-k[aria-hidden]'); if(d) sp.scrollLeft+=d.offsetLeft-sp.firstElementChild.offsetLeft; }
+      sp.scrollBy({left:dir*t,behavior:'smooth'}); }); });
+  [].forEach.call(document.querySelectorAll('#spor,#tpspor'),function(sp){ var x0=0,s0=0,ned=false,flyttet=false;
+    sp.addEventListener('pointerdown',function(e){ if(e.pointerType!=='mouse'||e.button!==0) return; ned=true; flyttet=false; x0=e.clientX; s0=sp.scrollLeft; });
+    window.addEventListener('pointermove',function(e){ if(!ned) return; var dx=e.clientX-x0; if(!flyttet&&Math.abs(dx)>5){ flyttet=true; sp.classList.add('traek'); }
+      if(flyttet){ sp.scrollLeft=s0-dx; e.preventDefault(); } });
+    window.addEventListener('pointerup',function(){ if(!ned) return; ned=false; if(flyttet){ sp.classList.remove('traek');
+      sp.addEventListener('click',function stop(ev){ ev.preventDefault(); ev.stopPropagation(); sp.removeEventListener('click',stop,true); },true);
+      setTimeout(function(){ flyttet=false; },0); } });
+    sp.addEventListener('dragstart',function(e){ e.preventDefault(); }); });
+})();
 var VIDEO_I_KORTET=true;
 document.querySelectorAll('.case').forEach(function(a){ a.addEventListener('click',function(e){
   if(!VIDEO_I_KORTET) return; e.preventDefault(); if(a.querySelector('iframe')) return;

diff --git a/tak.html b/tak.html
@@ -235,7 +235,7 @@ h1 .acc{color:#F27628}
     <!-- Stefan-video: vises, når alle trin er klaret, og kun hvis VIDEO_URL er sat -->
     <div class="vid" id="vid"></div>
 
-    <div class="husk"><svg aria-hidden="true"><use href="#i-gave"/></svg><p><b>Husk at være med live.</b> Det er kun dem, der er med live, der får optagelsen og muligheden for en gratis hjemmeside.</p></div>
+    <div class="husk"><svg aria-hidden="true"><use href="#i-gave"/></svg><p><b>Husk at være med live.</b> Det er kun dem, der er med live, der får optagelsen bagefter, og vi bygger deres hjemmeside gratis. Du betaler kun 99 kr./md. for domæne og hosting.</p></div>
 
     <p class="bund">Håndværkerskolen</p>
     <!-- kun i forhåndsvisningen (ikke på haandvaerkerskolen.nu): start forfra -->
